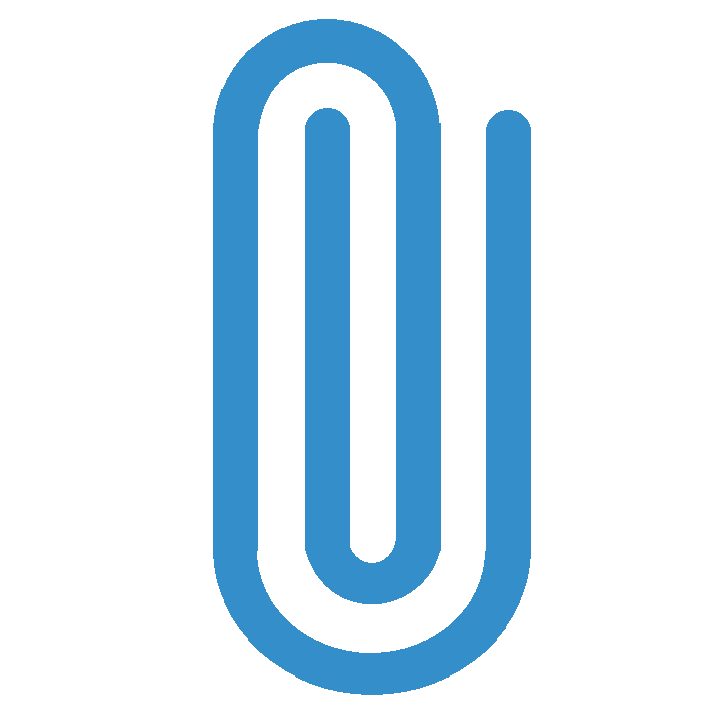
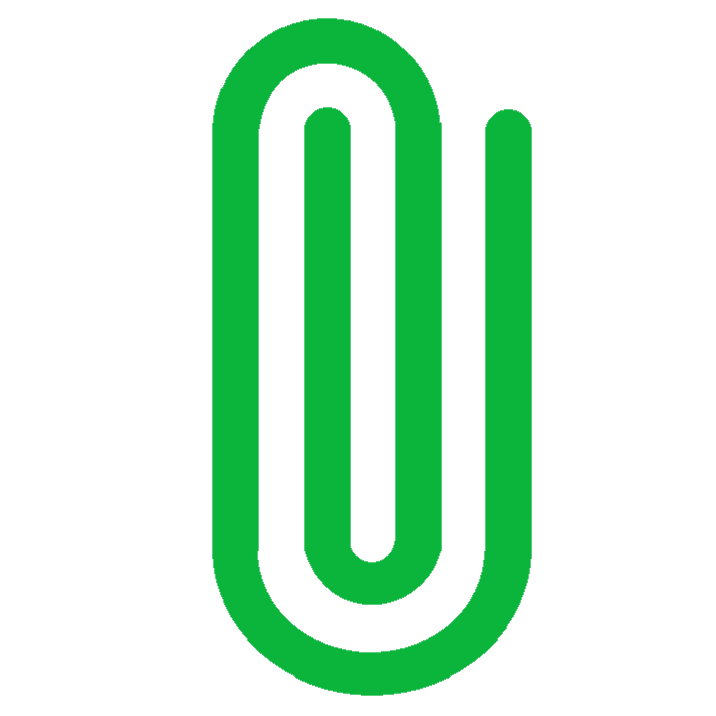
change theme from blue to green, and made the separate function to deal with new headings

Changed region(s): [[0.2765, 0.0, 0.7682, 0.9832]]

diff --git a/ollama_interface_chat/chat_interface.py b/ollama_interface_chat/chat_interface.py
@@ -16,6 +16,35 @@ def infer_text(text, model):
 
     return response["message"]["content"]
 
+def get_heading_for_text(message_body, model, base_model = "phi3", max_char = 1000):
+
+    question = message_body[0]
+    answer = message_body[1]
+
+    if len(answer) > max_char :
+        answer = answer[:max_char]
+
+    input_prompt = f"Question: {question}\n\nAnswer: {answer}\n\nGive me a short title that decribes this text. It can only be a few words. Only give me the title."
+
+    try:
+        response = infer_text(input_prompt, base_model)
+    except:
+        response = infer_text(input_prompt, model)
+
+    response = str(response).replace('"', "").replace('*', "").replace('#', "").replace("title:", "").replace("Title:", "").split("\n")[0]
+
+    try:
+        while new_heading[0] == " ":
+            new_heading = new_heading[1:]
+    except:
+        new_heading = None
+
+    if new_heading != None:
+        if len(new_heading) > 100:
+            new_heading = new_heading[:100]
+
+    return response
+
 def stream_text(text, model, jsonify = False, system_prompt = ""):
     
     if type(text) == list:
@@ -303,18 +332,7 @@ def done_adding_letters_to_chat(self):
 
     if message_heading == None and len(self.message_body) > 1:
 
-        new_heading = infer_text(f"Here is a question {self.message_body[0]}. Give me a short title that describes this title. Only give me the title.", self.selected_model)
-
-        new_heading = str(new_heading).replace('"', "").replace('*', "").replace('#', "").replace("title:", "").replace("Title:", "").split("\n")[0]
-
-        try:
-            while new_heading[0] == " ":
-                new_heading = new_heading[1:]
-        except:
-            new_heading = None
-
-        if len(new_heading) > 100:
-            new_heading = new_heading[:100]
+        new_heading = get_heading_for_text(self.message_body, self.selected_model)
 
         chat_history[self.message_entry_key]["message_heading"] = new_heading
 
@@ -353,7 +371,7 @@ def create_message_board_item(self: Ui_MainWindow, idx, message_heading, message
     temp_label.setObjectName(f"message_board_label_{idx}")
     temp_label.setWordWrap(True)
     if make_bold:
-        temp_label.setText(f'<html><head/><body><p><span style=" font-weight:600; color:#348EC9;">{message_heading}</span></p></body></html>')
+        temp_label.setText(f'<html><head/><body><p><span style=" font-weight:600; color:#0bb43b;">{message_heading}</span></p></body></html>')
     else:
         temp_label.setText(message_heading)
         
